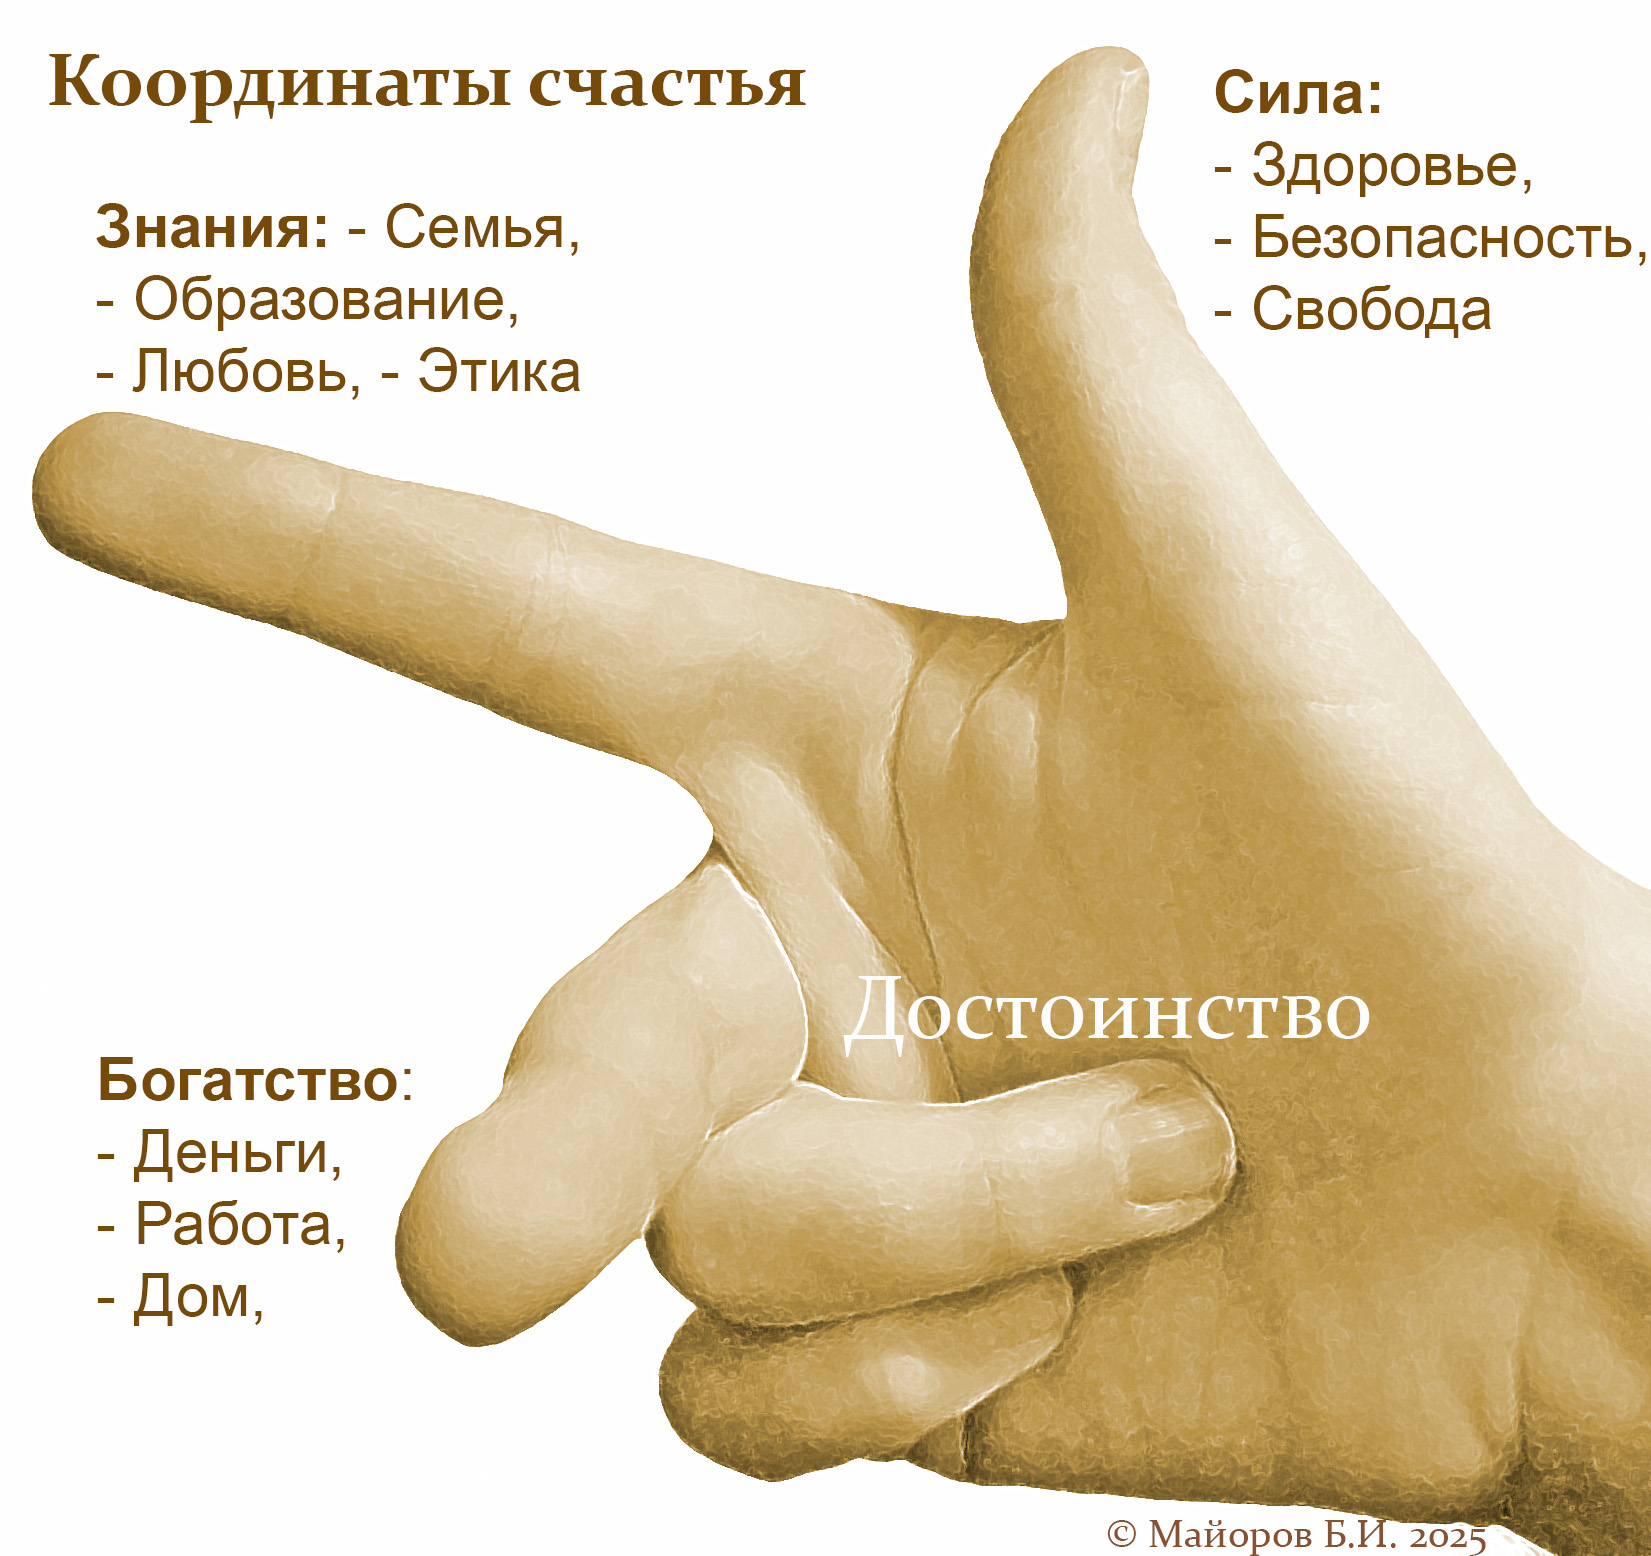
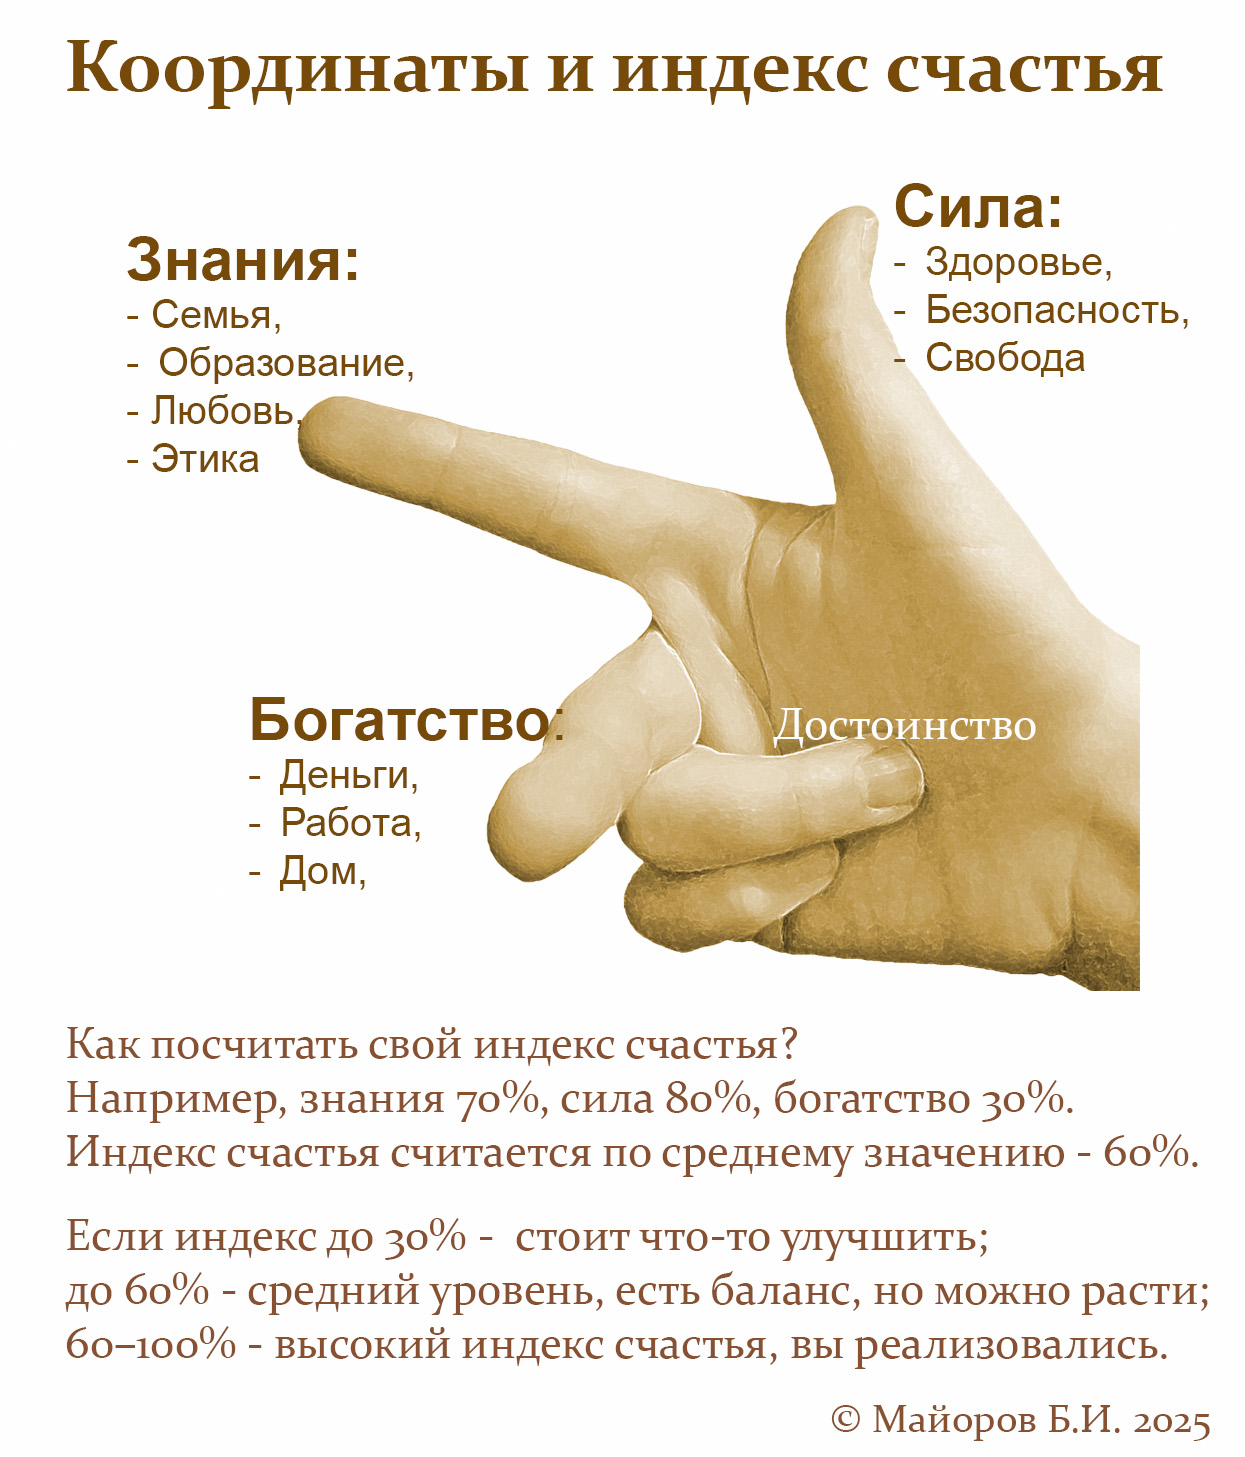
Расчёт

diff --git a/10-z_info.html b/10-z_info.html
@@ -261,7 +261,7 @@
               alt="Пространство счастья"
             />
             <div class="value-name">
-              Вариант 4, напрмер, Иванов:(50%+50%+50%)/3=50%
+              Вариант 4
             </div>
           </div>
           <div class="value-item">
